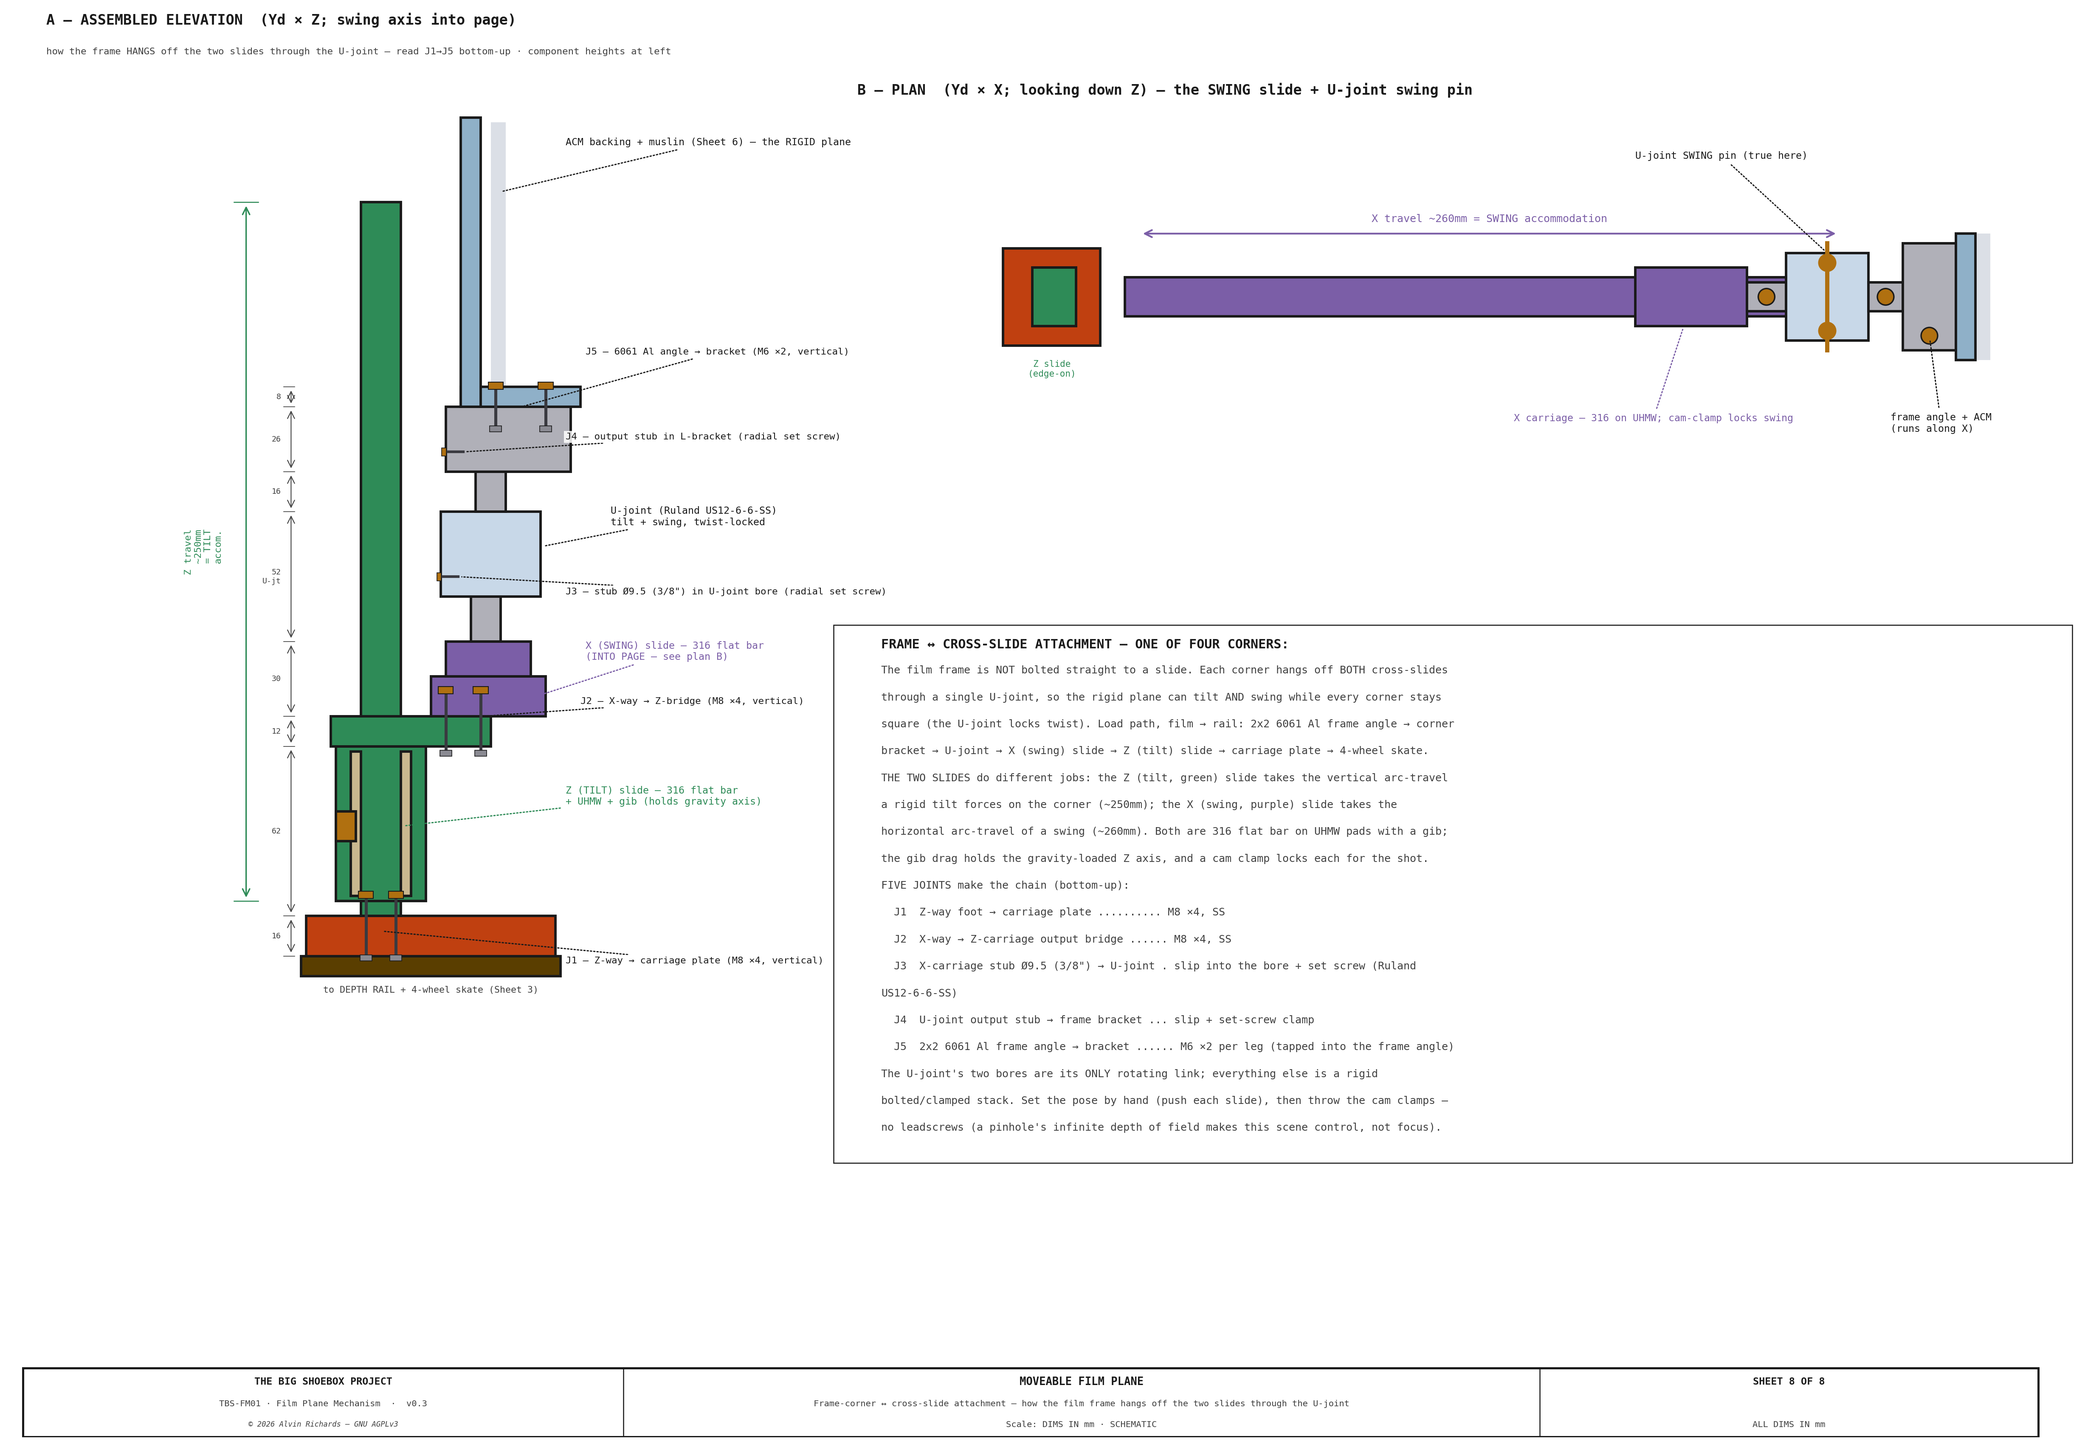
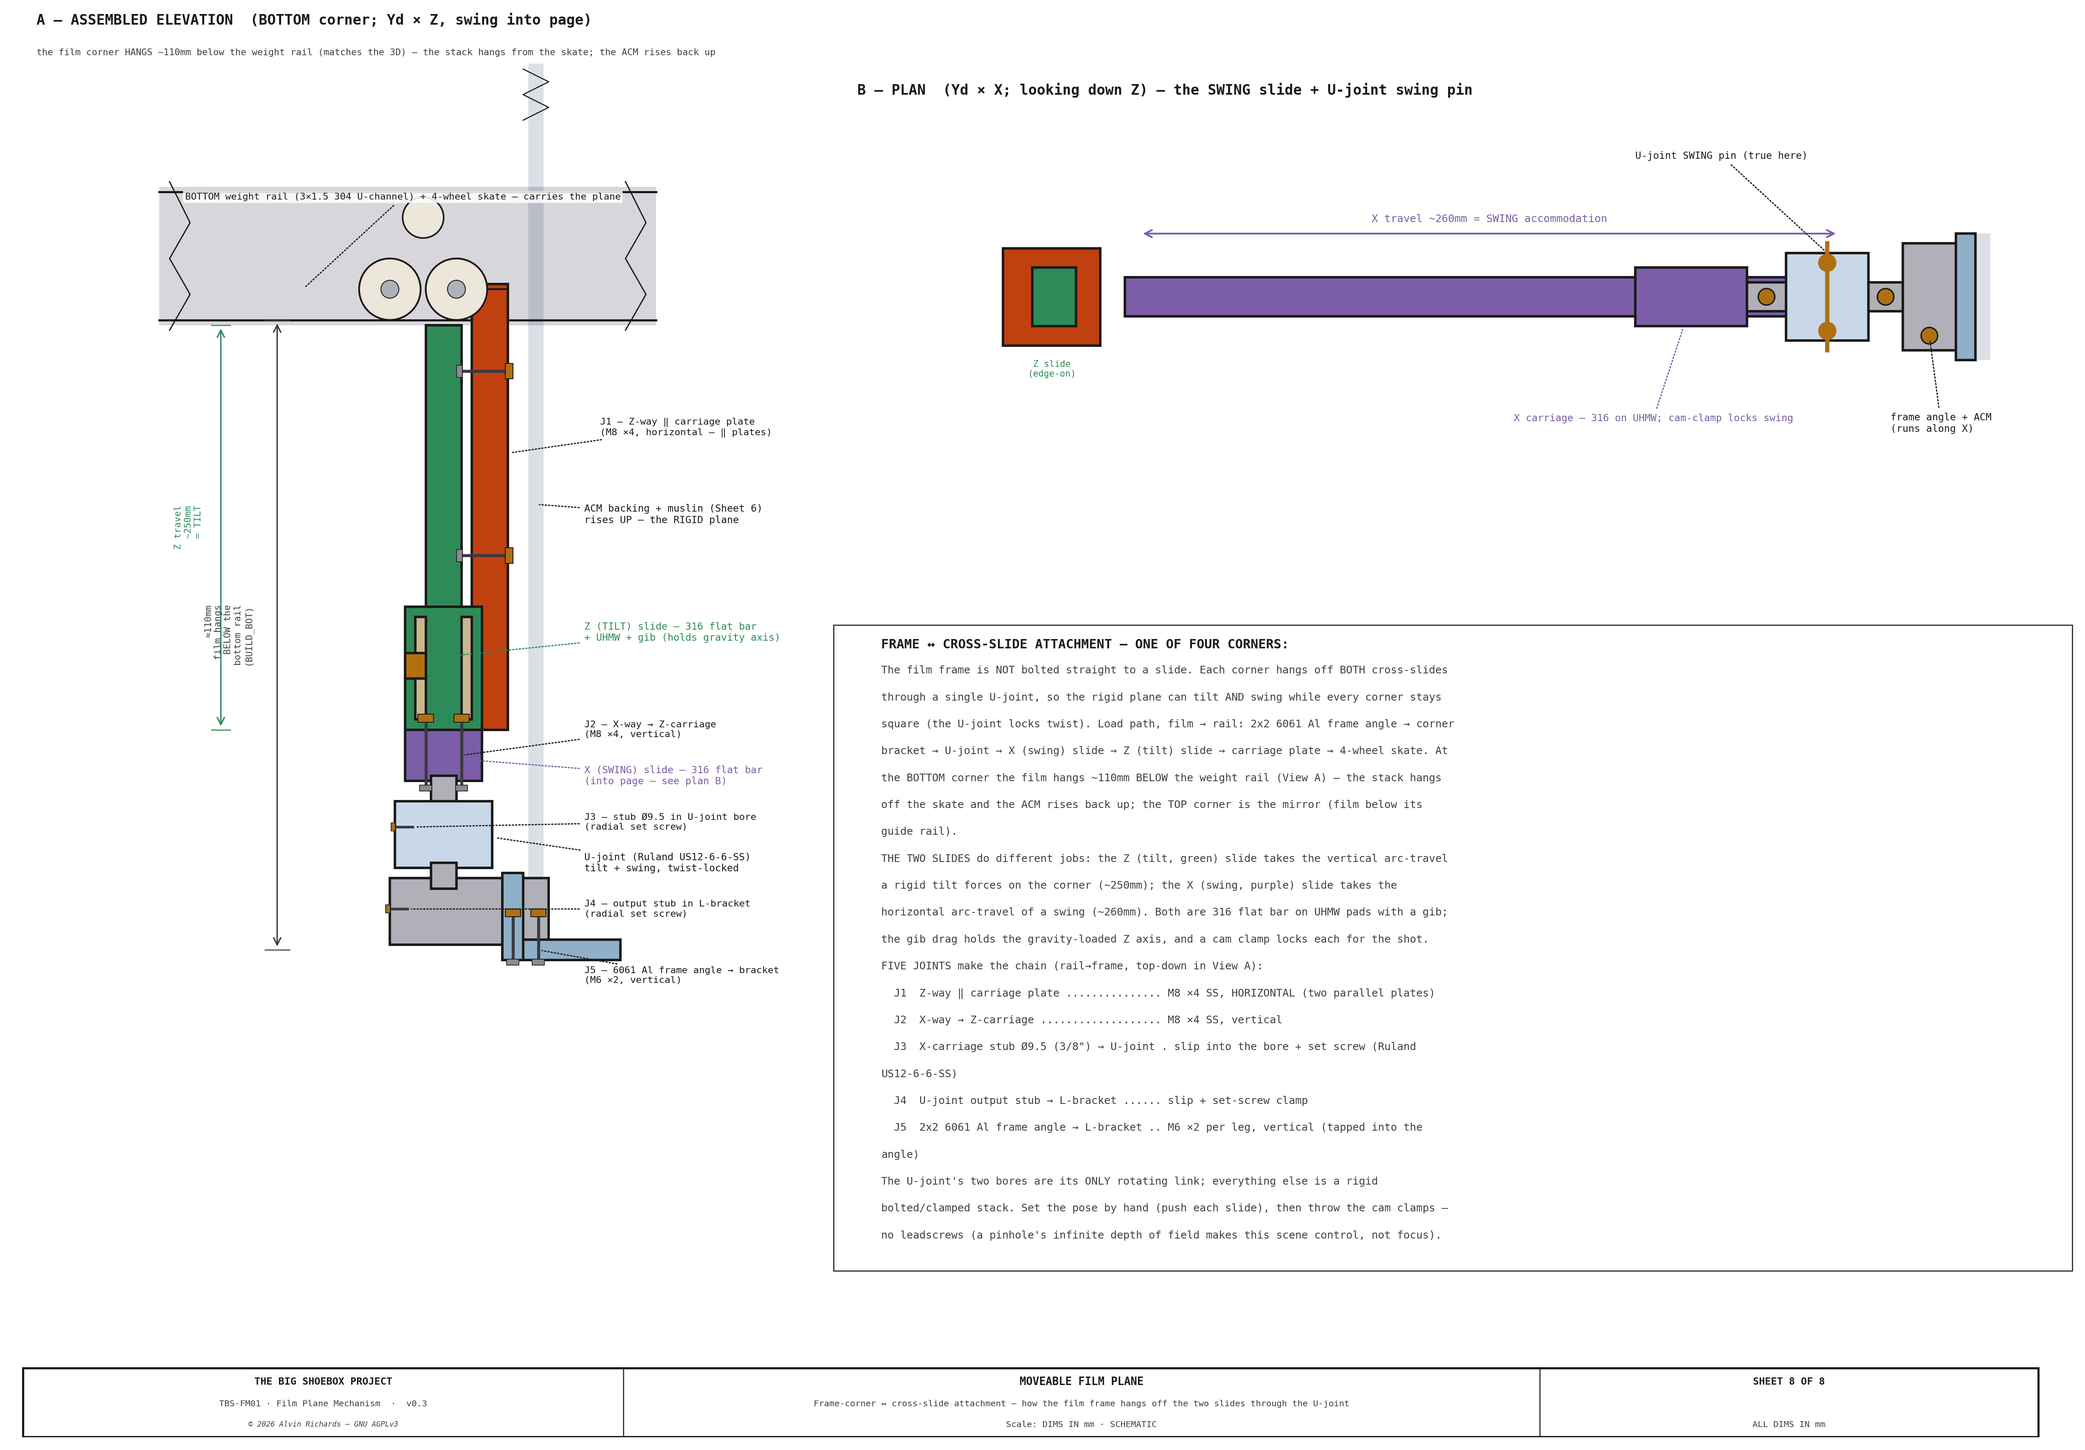
Sheet 8: reorient the assembled elevation to the real BOTTOM corner (validate vs 3D)
Validated View A against the live BL corner: the elevation was drawn frame-above-rail
(stack building up), but the 3D bottom corner hangs the frame ~110mm BELOW the weight
rail — the film hangs below the bottom rail (BUILD_BOT). Redrawn to match:
- weight rail at the TOP with the 4-wheel skate; the whole stack HANGS DOWN from it;
  frame corner at the BOTTOM; the ACM/film rises back UP past the rail.
- added the key ≈110mm 'film hangs below the bottom rail' dimension.
- J1 corrected to a HORIZONTAL bolt (the Z-way and carriage plate are parallel vertical
  plates, bolted face-to-face — not a way-foot on a horizontal plate); J2 vertical,
  J3/J4 radial set screws, J5 vertical (unchanged).
- fastener schedule + reading direction (rail→frame, top-down) updated to match.

3D unchanged (2D-only fix).

diff --git a/src/generators/generate_film_plane_mechanism.py b/src/generators/generate_film_plane_mechanism.py
@@ -2222,67 +2222,82 @@ def _vdimchain(ax, x, segs):
         ax.text(x - 4, (y0 + y1) / 2, lab, fontsize=4.4, color=DIM, ha="right", va="center", **FONT)
 
 
+def _hbolt(ax, y, x0, x1):
+    """A HORIZONTAL bolt joining two face-to-face parallel (vertical) plates — shank in-plane, head one end."""
+    ax.plot([x0, x1], [y, y], color="#3A3A40", lw=1.7, zorder=13)
+    ax.add_patch(plt.Rectangle((x1 - 1, y - 3), 3, 6, fc=C_PIN, ec=OUT, lw=0.5, zorder=14))            # head
+    ax.add_patch(plt.Rectangle((x0 - 2, y - 2.4), 2.4, 4.8, fc="#8A8A92", ec=OUT, lw=0.4, zorder=14))  # nut
+
+
 def _hatch316(ax, x, y, w, h, z=6):
     hatch_rect(ax, x, y, w, h, color="#6E747C", hatch="\\\\\\", lw=0.0)
 
 
 def attach_elevation(ax):
-    """ASSEMBLED ELEVATION (Yd × Z), looking along +X (the SWING axis is into the page).
-    Shows the whole hang: depth-rail skate → carriage plate → Z (tilt) slide → X (swing) slide → U-joint
-    → frame corner bracket → 2x2 6061 Al frame angle + ACM. The Z slide's travel is the TILT accommodation;
-    the X slide (edge-on here) does SWING. Five bolted joints J1–J5 make the chain."""
-    ax.set_xlim(-58, 210); ax.set_ylim(-20, 372); ax.set_aspect("equal"); ax.axis("off")
-    # depth rail + skate (abbreviated base)
-    _rect(ax, 44, -14, 104, 8, RAIL, z=3)
-    ax.text(96, -18, "to DEPTH RAIL + 4-wheel skate (Sheet 3)", fontsize=5.2, color=DIM, ha="center", va="top", **FONT)
-    # carriage plate (red) — the moving base bolted to the skate axles
-    _rect(ax, 46, -6, 100, 16, C_CAR, z=4)
-    # Z (TILT) slide — a tall 316 flat-bar WAY (travel envelope) + a 316 carriage on UHMW pads at nominal LOW
-    _rect(ax, 68, 10, 16, 286, C_TILT, z=4); _hatch316(ax, 68, 10, 16, 286)
-    _rect(ax, 58, 16, 36, 62, C_TILT, z=6)
-    _rect(ax, 64, 18, 4, 58, C_POLY, z=7); _rect(ax, 84, 18, 4, 58, C_POLY, z=7)   # UHMW pads on both faces
-    _rect(ax, 58, 40, 8, 12, C_PIN, z=7)                                           # gib + brass-tip screw
-    # J1 — Z-way foot bolts DOWN through the carriage plate (VERTICAL bolt axis)
-    _vbolt(ax, 70, -6, 18); _vbolt(ax, 82, -6, 18)
-    # Z-carriage output bridge → carries the X slide
-    _rect(ax, 56, 78, 64, 12, C_TILT, z=6)
-    # X (SWING) slide — 316 flat bar, edge-on (runs into the page along X) + carriage
-    _rect(ax, 96, 90, 46, 16, C_SWING, z=6); _hatch316(ax, 96, 90, 46, 16)
-    _rect(ax, 102, 106, 34, 14, C_SWING, z=7)
-    # J2 — X-way bolts DOWN into the Z-carriage bridge (VERTICAL)
-    _vbolt(ax, 102, 76, 100); _vbolt(ax, 116, 76, 100)
-    # stub shaft (316) up into the U-joint input bore
-    _rect(ax, 112, 120, 12, 18, C_STEEL, z=6)
-    # U-joint (Ruland US12-6-6-SS) — tilt + swing, twist locked
-    _rect(ax, 100, 138, 40, 34, C_UJ, z=6)
-    _setscrew(ax, 100, 146)                                                        # J3 — lower-hub RADIAL set screw on the input stub
-    # output stub (316) up to the frame corner bracket
-    _rect(ax, 114, 172, 12, 16, C_STEEL, z=6)
-    # frame corner L-bracket (6061 Al, anodized, expendable) — clamps the output stub, bolts to the frame angle
-    _rect(ax, 102, 188, 50, 26, C_STEEL, z=6)
-    _setscrew(ax, 102, 196)                                                        # J4 — bracket RADIAL set screw on the output stub
-    # 2x2 6061 Al frame ANGLE corner (L) + ACM ghost climbing in Z
-    _rect(ax, 108, 214, 48, 8, C_FRAME, z=7)     # in-plane / horizontal leg (ACM seat)
-    _rect(ax, 108, 214, 8, 116, C_FRAME, z=7)    # perp / vertical leg (muslin-clamp face)
-    ax.add_patch(plt.Rectangle((120, 222), 6, 106, fc=C_PANEL, ec="none", alpha=0.16, zorder=2))
-    # J5 — frame angle in-plane leg bolts DOWN into the bracket (VERTICAL) — the joint Alvin flagged
-    _vbolt(ax, 122, 206, 222); _vbolt(ax, 142, 206, 222)
-    # ── per-component VERTICAL dimension chain (left column) ──
-    _vdimchain(ax, 40, [(-6, 10, "16"), (10, 78, "62"), (78, 90, "12"), (90, 120, "30"),
-                        (120, 172, "52\nU-jt"), (172, 188, "16"), (188, 214, "26"), (214, 222, "8")])
-    draw_dim_v(ax, 22, 16, 296, "Z travel\n~250mm\n= TILT\naccom.", offset=16, fs=5.4, color=C_TILT, font=FONT)
+    """ASSEMBLED ELEVATION of the BOTTOM corner (Yd × Z; swing axis into page). The WEIGHT rail is at the
+    TOP — the 4-wheel skate rides it and the whole stack HANGS DOWN ~110mm to the film corner, because the
+    film plane hangs BELOW the bottom rail (BUILD_BOT, matches the 3D model). The film/ACM then rises back
+    UP past the rail. Chain, rail→frame: carriage plate → Z (tilt) slide → X (swing) slide → U-joint →
+    L-bracket → 6061 Al frame angle. (Spread vertically for label clarity — schematic, not to scale.)"""
+    ax.set_xlim(-64, 205); ax.set_ylim(-10, 372); ax.set_aspect("equal"); ax.axis("off")
+
+    # ── WEIGHT RAIL at the TOP (3×1.5 304 U-channel, web-vertical, runs in Yd) + 4-wheel skate ──
+    ax.add_patch(plt.Rectangle((-16, 250), 194, 54, fc=C_STEEL, ec="none", alpha=0.5, zorder=2))  # web face (behind)
+    ax.plot([-16, 178], [252, 252], color=OUT, lw=1.2, zorder=3)                                  # bottom flange edge
+    ax.plot([-16, 178], [302, 302], color=OUT, lw=1.2, zorder=3)                                  # top flange edge
+    for bx in (-8, 170):                                                                          # break zigzags (rail continues in Yd)
+        zz = [(bx-4,248),(bx+4,262),(bx-4,276),(bx+4,290),(bx-4,306)]
+        ax.plot([p[0] for p in zz],[p[1] for p in zz], color=OUT, lw=0.7, zorder=4)
+    for wx in (74, 100):                                                                          # 2 load wheels on the bottom flange
+        draw_circle(ax, wx, 264, 12, color=OUT, fill=True, fc=C_ACET, lw=1.0, zorder=6)
+        draw_circle(ax, wx, 264, 3.5, color=OUT, fill=True, fc=C_STEEL, lw=0.5, zorder=7)
+    draw_circle(ax, 87, 292, 8, color=OUT, fill=True, fc=C_ACET, lw=0.9, zorder=6)                # keeper (anti-lift)
+    ax.plot([100, 120], [264, 264], color=OUT, lw=1.0, zorder=5)                                  # axle → carriage plate
+    # ── carriage plate: bolted to the axle, a VERTICAL plate hanging DOWN ──
+    _rect(ax, 106, 92, 14, 174, C_CAR, z=4)                                                       # y92-266
+    # ── Z (TILT) slide: a vertical 316 flat-bar WAY fixed to the plate + a carriage on UHMW at the LOWER end ──
+    _rect(ax, 88, 92, 14, 158, C_TILT, z=4); _hatch316(ax, 88, 92, 14, 158)                       # way y92-250
+    _rect(ax, 80, 92, 30, 48, C_TILT, z=6)                                                        # Z-carriage (lower end = nominal)
+    _rect(ax, 84, 96, 4, 40, C_POLY, z=7); _rect(ax, 102, 96, 4, 40, C_POLY, z=7)                 # UHMW pads
+    _rect(ax, 80, 112, 8, 10, C_PIN, z=7)                                                         # gib
+    # J1 — the WAY and the carriage PLATE are PARALLEL vertical plates → HORIZONTAL bolts through the faces
+    _hbolt(ax, 232, 102, 120); _hbolt(ax, 160, 102, 120)
+    # ── X (SWING) slide — 316 flat bar edge-on (runs into the page along X), below the Z-carriage ──
+    _rect(ax, 80, 72, 30, 20, C_SWING, z=6); _hatch316(ax, 80, 72, 30, 20)
+    # J2 — X-way bolts UP into the Z-carriage underside (VERTICAL)
+    _vbolt(ax, 88, 70, 96); _vbolt(ax, 102, 70, 96)
+    _rect(ax, 90, 62, 10, 12, C_STEEL, z=6)                                                       # stub → U-joint input bore
+    # ── U-joint (Ruland US12-6-6-SS) ──
+    _rect(ax, 76, 38, 38, 26, C_UJ, z=6)
+    _setscrew(ax, 76, 54, dx=7)                                                                   # J3 — input-hub RADIAL set screw
+    _rect(ax, 90, 30, 10, 10, C_STEEL, z=6)                                                       # output stub → L-bracket
+    # ── frame corner L-bracket (6061 Al, anodized, expendable) — wraps the corner, holds the U-joint output ──
+    _rect(ax, 74, 8, 62, 26, C_STEEL, z=5)
+    _setscrew(ax, 74, 22, dx=7)                                                                   # J4 — bracket RADIAL set screw
+    # ── 6061 Al frame ANGLE corner + ACM rising UP (the film plane hangs below, then climbs) ──
+    _rect(ax, 118, 2, 46, 8, C_FRAME, z=7)                                                        # horizontal leg (film bottom edge / ACM seat)
+    _rect(ax, 118, 2, 8, 34, C_FRAME, z=7)                                                        # short perp leg (muslin-clamp face)
+    ax.add_patch(plt.Rectangle((128, 10), 6, 342, fc=C_PANEL, ec="none", alpha=0.16, zorder=2))   # ACM rises UP past the rail
+    for by in (330,):                                                                             # break on the rising ACM
+        ax.plot([126,136,126,136,126],[by,by+5,by+10,by+15,by+20], color=OUT, lw=0.6, zorder=6)
+    # J5 — frame angle horizontal leg bolts UP into the L-bracket (VERTICAL) — the joint Alvin flagged
+    _vbolt(ax, 122, 2, 20); _vbolt(ax, 132, 2, 20)
+    # ── the KEY relationship: the film corner hangs ~110mm BELOW the bottom rail ──
+    draw_dim_v(ax, 30, 6, 252, "≈110mm\nfilm hangs\nBELOW the\nbottom rail\n(BUILD_BOT)", offset=16, fs=5.2, color=DIM, font=FONT)
+    draw_dim_v(ax, 8, 92, 250, "Z travel\n~250mm\n= TILT", offset=12, fs=5.2, color=C_TILT, font=FONT)
     # ── leaders / joint callouts ──
-    leader(ax, 76, 4, 150, -8, "J1 — Z-way → carriage plate (M8 ×4, vertical)", ha="left", fs=5.4, color=OUT, font=FONT, bbox=LBL_BG)
-    leader(ax, 84, 46, 150, 58, "Z (TILT) slide — 316 flat bar\n+ UHMW + gib (holds gravity axis)", ha="left", fs=5.6, color=C_TILT, font=FONT, bbox=LBL_BG)
-    leader(ax, 116, 90, 156, 96, "J2 — X-way → Z-bridge (M8 ×4, vertical)", ha="left", fs=5.4, color=OUT, font=FONT, bbox=LBL_BG)
-    leader(ax, 138, 98, 158, 116, "X (SWING) slide — 316 flat bar\n(INTO PAGE — see plan B)", ha="left", fs=5.6, color=C_SWING, font=FONT, bbox=LBL_BG)
-    leader(ax, 107, 146, 150, 140, "J3 — stub Ø9.5 (3/8\") in U-joint bore (radial set screw)", ha="left", fs=5.4, color=OUT, font=FONT, bbox=LBL_BG)
-    leader(ax, 140, 158, 168, 170, "U-joint (Ruland US12-6-6-SS)\ntilt + swing, twist-locked", ha="left", fs=5.6, color=OUT, font=FONT, bbox=LBL_BG)
-    leader(ax, 109, 196, 150, 202, "J4 — output stub in L-bracket (radial set screw)", ha="left", fs=5.4, color=OUT, font=FONT, bbox=LBL_BG)
-    leader(ax, 132, 214, 158, 236, "J5 — 6061 Al angle → bracket (M6 ×2, vertical)", ha="left", fs=5.4, color=OUT, font=FONT, bbox=LBL_BG)
-    leader(ax, 123, 300, 150, 320, "ACM backing + muslin (Sheet 6) — the RIGID plane", ha="left", fs=5.6, color=OUT, font=FONT, bbox=LBL_BG)
-    ax.text(-58, 372, "A — ASSEMBLED ELEVATION  (Yd × Z; swing axis into page)", fontsize=8, fontweight="bold", color=OUT, ha="left", va="top", **FONT)
-    ax.text(-58, 358, "how the frame HANGS off the two slides through the U-joint — read J1→J5 bottom-up · component heights at left", fontsize=5.4, color=DIM, ha="left", va="top", **FONT)
+    leader(ax, 40, 264, -6, 300, "BOTTOM weight rail (3×1.5 304 U-channel) + 4-wheel skate — carries the plane", ha="left", fs=5.4, color=OUT, font=FONT, bbox=LBL_BG)
+    leader(ax, 120, 200, 156, 210, "J1 — Z-way ‖ carriage plate\n(M8 ×4, horizontal — ‖ plates)", ha="left", fs=5.4, color=OUT, font=FONT, bbox=LBL_BG)
+    leader(ax, 90, 120, 150, 130, "Z (TILT) slide — 316 flat bar\n+ UHMW + gib (holds gravity axis)", ha="left", fs=5.6, color=C_TILT, font=FONT, bbox=LBL_BG)
+    leader(ax, 102, 82, 150, 92, "J2 — X-way → Z-carriage\n(M8 ×4, vertical)", ha="left", fs=5.4, color=OUT, font=FONT, bbox=LBL_BG)
+    leader(ax, 108, 80, 150, 74, "X (SWING) slide — 316 flat bar\n(into page — see plan B)", ha="left", fs=5.6, color=C_SWING, font=FONT, bbox=LBL_BG)
+    leader(ax, 83, 54, 150, 56, "J3 — stub Ø9.5 in U-joint bore\n(radial set screw)", ha="left", fs=5.4, color=OUT, font=FONT, bbox=LBL_BG)
+    leader(ax, 114, 50, 150, 40, "U-joint (Ruland US12-6-6-SS)\ntilt + swing, twist-locked", ha="left", fs=5.6, color=OUT, font=FONT, bbox=LBL_BG)
+    leader(ax, 81, 22, 150, 22, "J4 — output stub in L-bracket\n(radial set screw)", ha="left", fs=5.4, color=OUT, font=FONT, bbox=LBL_BG)
+    leader(ax, 132, 6, 150, -4, "J5 — 6061 Al frame angle → bracket\n(M6 ×2, vertical)", ha="left", fs=5.4, color=OUT, font=FONT, bbox=LBL_BG)
+    leader(ax, 131, 180, 150, 176, "ACM backing + muslin (Sheet 6)\nrises UP — the RIGID plane", ha="left", fs=5.6, color=OUT, font=FONT, bbox=LBL_BG)
+    ax.text(-64, 372, "A — ASSEMBLED ELEVATION  (BOTTOM corner; Yd × Z, swing into page)", fontsize=8, fontweight="bold", color=OUT, ha="left", va="top", **FONT)
+    ax.text(-64, 358, "the film corner HANGS ~110mm below the weight rail (matches the 3D) — the stack hangs from the skate; the ACM rises back up", fontsize=5.2, color=DIM, ha="left", va="top", **FONT)
 
 
 def attach_plan(ax):
@@ -2331,17 +2346,19 @@ def sheet8():
         "The film frame is NOT bolted straight to a slide. Each corner hangs off BOTH cross-slides "
         "through a single U-joint, so the rigid plane can tilt AND swing while every corner stays "
         "square (the U-joint locks twist). Load path, film → rail: 2x2 6061 Al frame angle → corner "
-        "bracket → U-joint → X (swing) slide → Z (tilt) slide → carriage plate → 4-wheel skate.",
+        "bracket → U-joint → X (swing) slide → Z (tilt) slide → carriage plate → 4-wheel skate. At the "
+        "BOTTOM corner the film hangs ~110mm BELOW the weight rail (View A) — the stack hangs off the "
+        "skate and the ACM rises back up; the TOP corner is the mirror (film below its guide rail).",
         "THE TWO SLIDES do different jobs: the Z (tilt, green) slide takes the vertical arc-travel a "
         "rigid tilt forces on the corner (~250mm); the X (swing, purple) slide takes the horizontal "
         "arc-travel of a swing (~260mm). Both are 316 flat bar on UHMW pads with a gib; the gib drag "
         "holds the gravity-loaded Z axis, and a cam clamp locks each for the shot.",
-        "FIVE JOINTS make the chain (bottom-up):",
-        "  J1  Z-way foot → carriage plate .......... M8 ×4, SS",
-        "  J2  X-way → Z-carriage output bridge ...... M8 ×4, SS",
+        "FIVE JOINTS make the chain (rail→frame, top-down in View A):",
+        "  J1  Z-way ‖ carriage plate ............... M8 ×4 SS, HORIZONTAL (two parallel plates)",
+        "  J2  X-way → Z-carriage ................... M8 ×4 SS, vertical",
         "  J3  X-carriage stub Ø9.5 (3/8\") → U-joint . slip into the bore + set screw (Ruland US12-6-6-SS)",
-        "  J4  U-joint output stub → frame bracket ... slip + set-screw clamp",
-        "  J5  2x2 6061 Al frame angle → bracket ...... M6 ×2 per leg (tapped into the frame angle)",
+        "  J4  U-joint output stub → L-bracket ...... slip + set-screw clamp",
+        "  J5  2x2 6061 Al frame angle → L-bracket .. M6 ×2 per leg, vertical (tapped into the angle)",
         "The U-joint's two bores are its ONLY rotating link; everything else is a rigid bolted/clamped "
         "stack. Set the pose by hand (push each slide), then throw the cam clamps — no leadscrews "
         "(a pinhole's infinite depth of field makes this scene control, not focus).",
